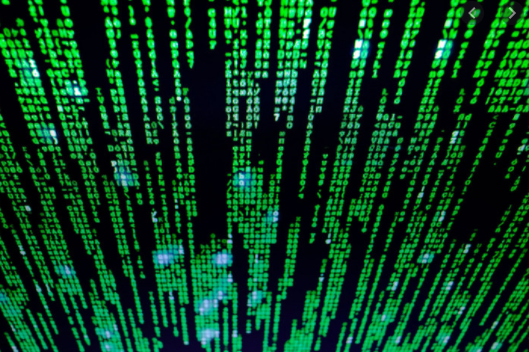
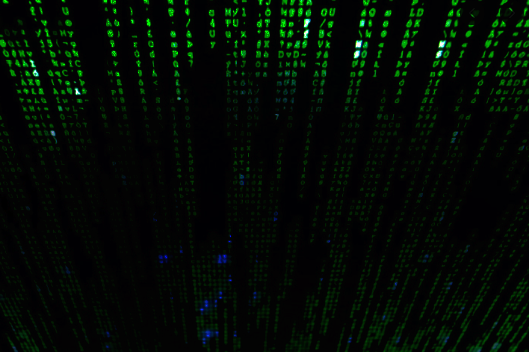
stable BETA

diff --git a/js/scripts.js b/js/scripts.js
@@ -3,8 +3,11 @@ const levelBackground = [
     'url(./images/cosmos.png) center/cover',
     'url(./images/matrix.png) center/cover',
     'url(./images/lava.png) center/cover',
+    'url(./images/woods.png) center/cover',
  'url(./images/desert.png) center/cover']
-let currentLevel = -1
+
+//current level 
+ let currentLevel = -1
 //hide scrollbars
 document.body.style.overflow = 'hidden'
 //explosion sound
@@ -25,11 +28,11 @@ let player1frags = 0
 const player2KilledDisplay = document.querySelector('.player-two-enemies-destroyed')
 let player2frags = 0
 
-//enemy spawn status
+//enemy spawn status - free/occupied
 let spawnStatus
 //select enemy generating button
 const enemyGen = document.querySelector('.enemy-generator')
-
+enemyGen.style.visibility = 'hidden'
 //define game area
 //map size
 let mapHeight = 580
@@ -75,7 +78,7 @@ tank.style.opacity = 1
 const tank2 = document.createElement('div')
 // .setAttribute('style', "top: 0px; left: 360px")
 map.appendChild(tank2)
-tank2.setAttribute('style', "top: 30px; left:578px")
+tank2.setAttribute('style', "top: 500px; left:578px")
 tank2.classList.add('tank2')
 tank2.style.opacity = 1
 //++++++++++++++++++++++++++++++++++++++++++++++++++++++++++++++++++++++++++++++++++++
@@ -112,39 +115,54 @@ class Timer{
                 this.hoursField.innerText = this.hours
             }
             // if(this.minutes === 1 && this.seconds === 1){
-            if( this.seconds === 10){
+            // if( this.seconds === 10){}
+              
                
-               //throw out old map
-                map.style.transform = `rotateX(180deg) scaleX(0) skewX(20deg)`
-                
-                currentLevel++
-                map.style.background = `${levelBackground[currentLevel]}`
-                //REFRESH THE OBSTACLES - GENERATE NEW LEVEL
-                Obstacle.generateNewLevel()
-                endLevel = true
-                Enemy.getAllEnemies().forEach(element =>{
-                    element.DOMnode.remove()
-                })
-                tank.style.left = '582px'
-                tank2.style.left = '582px'
-                Enemy.number = 0
-                spawnStatus = 'occupied'
-                //present the new map
-                
-                setTimeout(() => {
-                    map.style.transform = 'rotateX(0deg) scaleX(1) skewX(0deg)'
-                    endLevel = false
-                    spawnStatus = 'free'
-                    Enemy.create()
-                }, 1000);
                
-            }
+            
+
+            //Generate new enemy every 1 second (unless spawn is occupied)
+            //performs click event on a hidden button previously used for testing
             enemyGen.click()
         },1000)
     
 }
+// LEVEL CHANGING INTERVAL
+setInterval(() => {
+    //throw out old map
+ map.style.transform = `rotateX(180deg) scaleX(0) skewX(20deg)`
+ //increase level counter
+ currentLevel++
 
-
+ //change background
+ map.style.background = `${levelBackground[currentLevel]}`
+ 
+ //REFRESH THE OBSTACLES - GENERATE NEW LEVEL
+ Obstacle.generateNewLevel()
+ 
+ //kill all old intervals
+ endLevel = true
+ Enemy.getAllEnemies().forEach(element =>{
+     element.DOMnode.remove()
+ })
+ //place players in starting positions
+ tank.style.left = '582px'
+ tank2.style.left = '582px'
+ tank2.style.top = '300px'
+ tank.style.top = '500px'
+ 
+ //reset enemy counter
+ Enemy.number = 0
+ spawnStatus = 'occupied'
+ 
+ //present the new map                
+ setTimeout(() => {
+     map.style.transform = 'rotateX(0deg) scaleX(1) skewX(0deg)'
+     endLevel = false
+     spawnStatus = 'free'
+     Enemy.create()
+ }, 1000);
+}, 180000);
 
 
 
@@ -1750,7 +1768,7 @@ class Enemy{
         }   
         
         Enemy.getAllEnemies().forEach((element) =>{
-            if(element.top <= 42 && element.left <= 42){
+            if(element.top <= 45 && element.left <= 45){
                 spawnStatus = 'occupied'
             }else{
                 spawnStatus = 'free'

diff --git a/README.md b/README.md
@@ -1,7 +1,7 @@
 My own variation of  famous video game Battle City by Nintendo (1985)
 
 
-
+New Level is generated automatically every 2 minutes.
 CONTROLS:
 
 Player 1
@@ -119,3 +119,17 @@ After returning to reduce, problem is gone, but performance is still less than e
 
 19.03.2021
 reversed movement function changes - separated again into two functions, it proven to be interfering with another players movement, too complex to maintain in a single function - happened to be more complicated with all if-statements required.
+
+19.04.2021
+fixed all shooting bugs, 
+added more intelligent obstacle destruction mode for enemies, 
+slowed down speed of player missles, 
+added logic for both players' lifebars and destroyed enemies counter,
+added fire animation to player tank after it gets shot,
+improved enemy spawning logic
+created entire logic for generating new level and fully automatic enemy spawn,
+added background images that change with each new level.
+performed thorough test
+
+THIS IS NOW THE OFFICIAL, fully playable BETA VERSION :)
+
